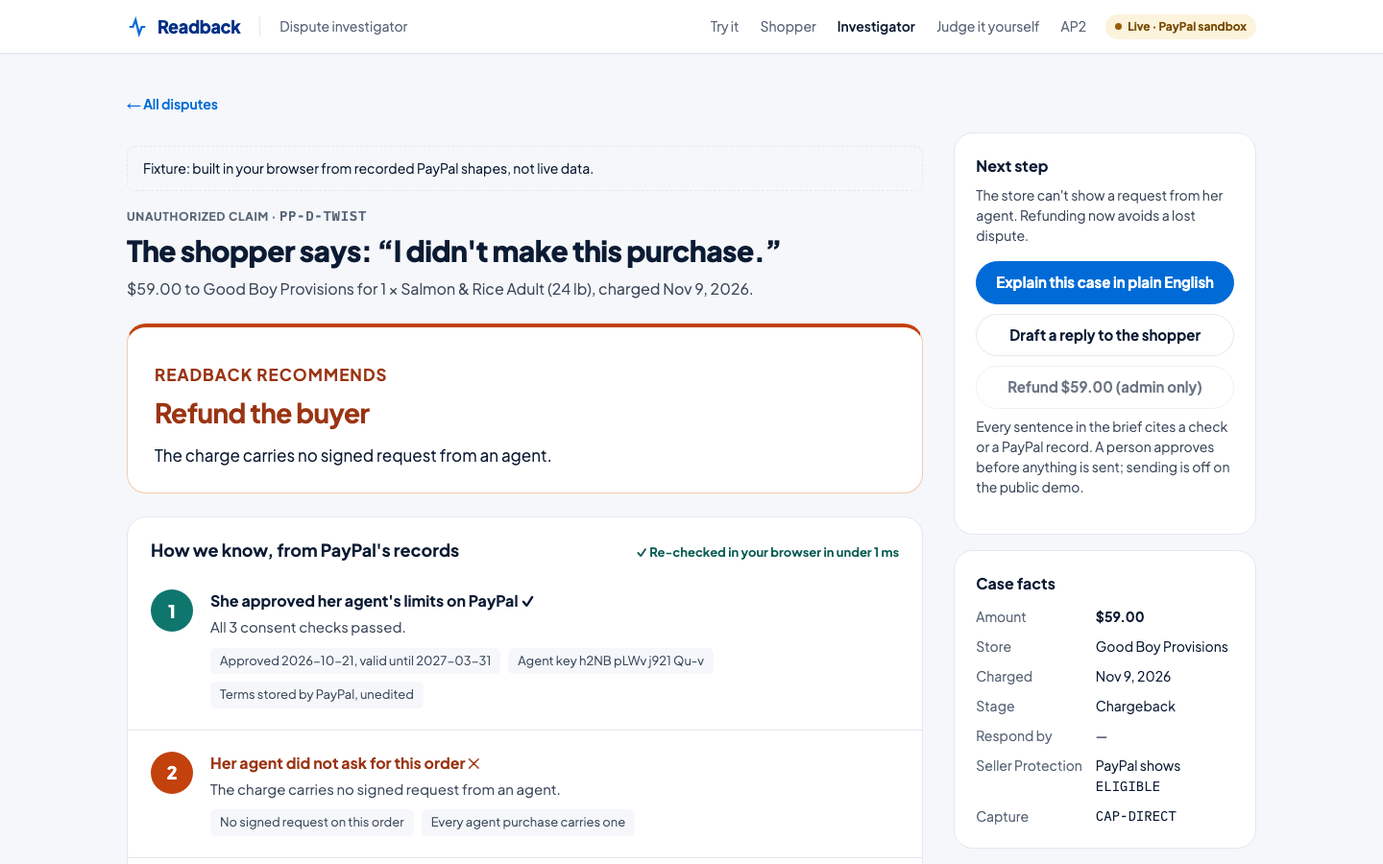
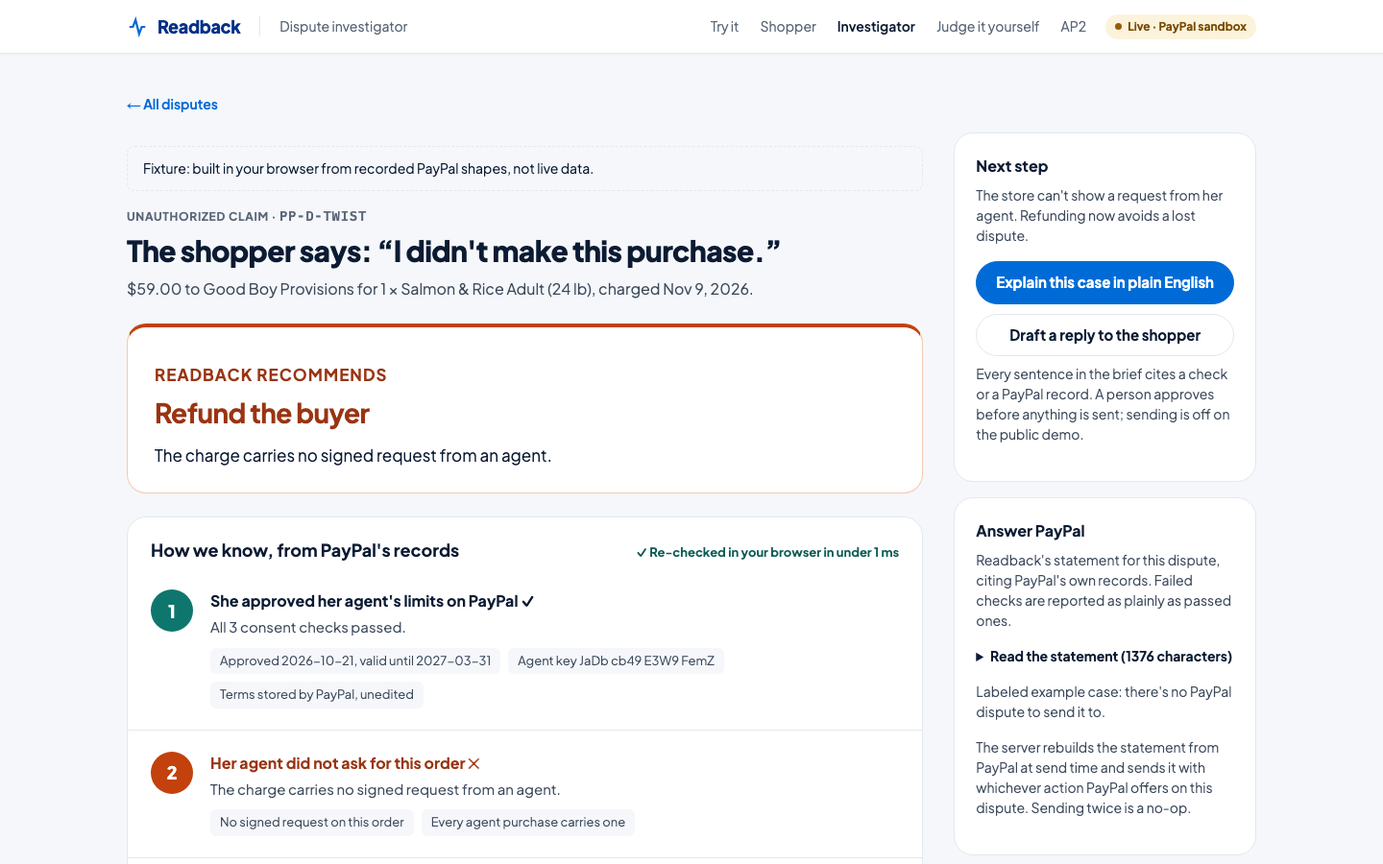
feat: edge cases from the Oct 26 review: closed and multi-charge disputes, refunds, issuer chargebacks, and the refund answer
- Verdict cards derive their headline and key sentence from the evidence
  ("Signed, but not by the key she approved" when that's what the checks
  show), and show PayPal's ruling once a dispute is closed: every live
  dispute will be closed by judging week (the sandbox decides in ~14 h).
- The home page reads HERO_DISPUTE_ID/TWIST_DISPUTE_ID per request; it was
  pre-rendered at build time, so setting them on a deployment did nothing.
- Classification notes, the case facts and the evidence statement state a
  refund already made, a card issuer's chargeback (the issuer decides), and a
  dispute covering several charges (the case view links the others). Notes
  never change a suggestion.
- "Answer PayPal": accept the claim and refund in one click, with the note
  written by code from the case; Readback's recommendation is the primary
  button. Refuses once PayPal has resolved the dispute. The fake supports
  accept-claim; tested end to end on a store's direct charge.

Changed region(s): [[0.6875, 0.4044, 0.9062, 0.9644], [0.4062, 0.7467, 0.5, 0.7778]]

diff --git a/apps/web/components/VerdictPair.tsx b/apps/web/components/VerdictPair.tsx
@@ -4,13 +4,27 @@
 import { type CaseResult, evaluateCase, groupFingerprint, lights } from "@readback/core";
 import { type ReactNode, useEffect, useState } from "react";
 import { loadCase } from "@/lib/case-client";
-import { recommendation } from "@/lib/labels";
+import { paypalRuling, recommendation, type Ruling } from "@/lib/labels";
 import { FourLights } from "./FourLights";
 import { RecPill } from "./ui";
 
-// signedBy/signedAfter wrap the agent fingerprint when the charge carries a valid signed request.
-export type Side = { id: string; tag: string; title: string; signedBy: string; signedAfter: string; unsigned: string; note?: string };
-type Checked = { result: CaseResult; amount: string; fixture: boolean };
+// `title` shows only while loading; once checked, the card's headline is derived from the evidence,
+// so a live pair can never say more than its own checks show (edge case, Oct 26). `note` replaces the
+// classification label only while there's no suggestion.
+export type Side = { id: string; tag: string; title: string; who: "her" | "your"; note?: string };
+
+function headline(result: CaseResult, who: Side["who"]): { title: string; key: "valid" | "other" | "none" } {
+  const m = result.facts.mandate;
+  const key = !m ? "none" : result.facts.terms?.fingerprint === m.fingerprint ? "valid" : "other";
+  const you = who === "her" ? "she" : "you";
+  const termsOk = lights(result.checks).find((l) => l.group === "Terms")?.state !== "fail";
+  const title =
+    key === "none" ? `The ${who === "her" ? "merchant" : "store"} charged ${who} wallet directly`
+    : key === "other" ? `Signed, but not by the key ${you} approved`
+    : `${who === "her" ? "Her" : "Your"} agent asked, ${termsOk ? "within" : "outside"} ${who} terms`;
+  return { title, key };
+}
+type Checked = { result: CaseResult; amount: string; fixture: boolean; ruling: Ruling | null };
 
 // Loads and re-checks each case; null while loading, an Error when it couldn't be read.
 export function useChecked(ids: string[]): { cases: (Checked | Error | null)[]; ms: number } {
@@ -21,7 +35,13 @@ export function useChecked(ids: string[]): { cases: (Checked | Error | null)[]; 
     (async () => {
       const loaded = await Promise.all(ids.map((id) => loadCase(id).catch((e: unknown) => (e instanceof Error ? e : new Error("Couldn't load this case.")))));
       const t0 = performance.now();
-      const cases = await Promise.all(loaded.map(async (l) => (l instanceof Error ? l : { result: await evaluateCase(l.bundle), amount: l.bundle.capture.amount.value, fixture: l.fixture })));
+      const cases = await Promise.all(
+        loaded.map(async (l) => {
+          if (l instanceof Error) return l;
+          const result = await evaluateCase(l.bundle);
+          return { result, amount: l.bundle.capture.amount.value, fixture: l.fixture, ruling: paypalRuling(l.bundle.dispute?.dispute_outcome, result.classification.suggestion) };
+        }),
+      );
       if (live) setState({ cases, ms: Math.round(performance.now() - t0) });
     })();
     return () => {
@@ -44,18 +64,28 @@ export function VerdictCard({ side, checked, placeholder }: { side: Side; checke
   }
   const c = checked.result.classification;
   const m = checked.result.facts.mandate;
+  const h = headline(checked.result, side.who);
+  const you = side.who === "her" ? "she" : "you";
   return (
     <article className="verdict-card" data-rec={recommendation(c.suggestion).key}>
       <div className="pair-top">
         <RecPill suggestion={c.suggestion} />
         <span className="mono muted">{side.tag} · ${checked.amount}</span>
       </div>
-      <h3>{side.title}</h3>
+      {checked.ruling && (
+        // A dispute PayPal already decided: its ruling first, then whether Readback's evidence agrees.
+        <p className="ruling-line"><strong>{checked.ruling.label}.</strong> {checked.ruling.agrees === null ? "" : checked.ruling.agrees ? "Readback agrees." : "Readback's evidence disagrees."}</p>
+      )}
+      <h3>{h.title}</h3>
       <p className="muted">
-        {m ? <>{side.signedBy} <span className="fp">{groupFingerprint(m.fingerprint)}</span>{side.signedAfter}</> : side.unsigned}
+        {m ? (
+          <>Signed by agent key <span className="fp">{groupFingerprint(m.fingerprint)}</span>{h.key === "valid" ? `, the key ${you} approved on PayPal.` : `, not the key ${you} approved on PayPal.`}</>
+        ) : (
+          `No signed request from ${side.who} agent.`
+        )}
       </p>
       <FourLights lights={lights(checked.result.checks)} />
-      <p className="muted small">{side.note ?? c.label}</p>
+      <p className="muted small">{c.suggestion === null && side.note ? side.note : c.label}</p>
       <a className="btn" href={`/investigator/${encodeURIComponent(side.id)}`}>Open the case</a>
     </article>
   );
@@ -77,12 +107,12 @@ export function YourVerdicts({ signed, direct }: { signed: string | null; direct
       </div>
       <div className="pair-grid">
         <VerdictCard
-          side={{ id: signed ?? "", tag: "Your agent's charge", title: "Your agent asked, within your terms", signedBy: "Signed by your tab's key", signedAfter: ", the one you approved on PayPal.", unsigned: "No valid signed request.", note: "No ruling yet, on purpose: nothing has shipped and a new agreement has no undisputed history. The hero case shows one that has both." }}
+          side={{ id: signed ?? "", tag: "Your agent's charge", title: "Your agent asked, within your terms", who: "your", note: "No ruling yet, on purpose: nothing has shipped and a new agreement has no undisputed history. The hero case shows one that has both." }}
           checked={at(signed)}
           placeholder="Step 2 puts your agent's signed charge here."
         />
         <VerdictCard
-          side={{ id: direct ?? "", tag: "The store's charge", title: "The store charged your wallet directly", signedBy: "Signed by", signedAfter: ".", unsigned: "Every term respected, but your agent never asked." }}
+          side={{ id: direct ?? "", tag: "The store's charge", title: "The store charged your wallet directly", who: "your" }}
           checked={at(direct)}
           placeholder="Step 5 puts the store's direct charge here."
         />

diff --git a/apps/web/components/CaseSide.tsx b/apps/web/components/CaseSide.tsx
@@ -11,7 +11,7 @@ const NEXT: Record<Rec["key"], string> = {
   review: "The records don't settle it either way. Read the brief, then decide.",
 };
 
-export function CaseActions({ id, rec, amount, closed }: { id: string; rec: Rec; amount: string; closed: boolean }) {
+export function CaseActions({ id, rec, closed }: { id: string; rec: Rec; closed: boolean }) {
   const [brief, setBrief] = useState<{ sentences: { text: string; cites: string[] }[]; by: string } | null>(null);
   const [draft, setDraft] = useState<{ kind: string; text: string } | null>(null);
 
@@ -34,7 +34,7 @@ export function CaseActions({ id, rec, amount, closed }: { id: string; rec: Rec;
       <div className="side-actions">
         <button type="button" className="btn btn-primary" onClick={explain}>Explain this case in plain English</button>
         {!closed && <button type="button" className="btn" onClick={loadDraft}>Draft a reply to the shopper</button>}
-        {!closed && rec.key === "refund" && <button type="button" className="btn" disabled>Refund ${amount} (admin only)</button>}
+
       </div>
       <p className="side-note">Every sentence in the brief cites a check or a PayPal record. A person approves before anything is sent; sending is off on the public demo.</p>
       {brief && (
@@ -70,6 +70,8 @@ export function CaseFacts({ bundle, result, stage }: { bundle: CaseBundle; resul
         <dt>Charged</dt><dd>{fmt(bundle.capture.create_time)}</dd>
         {stage && (<><dt>Stage</dt><dd>{stage}</dd></>)}
         <dt>Respond by</dt><dd>{due ? fmt(due) : "—"}</dd>
+        {bundle.capture.status.includes("REFUNDED") && (<><dt>Refund</dt><dd>PayPal shows <span className="mono">{bundle.capture.status}</span></dd></>)}
+        {bundle.dispute?.dispute_channel === "EXTERNAL" && (<><dt>Channel</dt><dd>Card issuer chargeback</dd></>)}
         <dt>Seller Protection</dt><dd>PayPal shows <span className="mono">{bundle.capture.seller_protection?.status ?? "not present"}</span></dd>
         <dt>Capture</dt><dd className="mono">{bundle.capture.id}</dd>
       </dl>
@@ -80,18 +82,20 @@ export function CaseFacts({ bundle, result, stage }: { bundle: CaseBundle; resul
 // The store's evidence, sent into PayPal's own dispute (SPEC §5.4–5.5). The statement shown here is
 // computed in this browser from the same PayPal records; the server rebuilds it from PayPal before
 // sending, so what PayPal receives is never text typed here. Sending needs the store's admin token.
-export function EvidenceToPayPal({ id, statement, live }: { id: string; statement: string; live: boolean }) {
+export function EvidenceToPayPal({ id, statement, live, rec, amount }: { id: string; statement: string; live: boolean; rec: Rec; amount: string }) {
   const [token, setToken] = useState("");
   const [busy, setBusy] = useState(false);
   const [result, setResult] = useState<{ ok: boolean; message: string; onPayPalRecord?: boolean; via?: string } | null>(null);
 
-  async function send() {
+  // Two answers, both written by the server from PayPal's records: send the evidence, or accept the
+  // claim and refund (when the evidence supports the buyer, that's Readback's recommendation).
+  async function send(action: "send_evidence" | "refund_buyer") {
     setBusy(true);
     setResult(null);
     const res = await fetch(`/api/cases/${encodeURIComponent(id)}/actions`, {
       method: "POST",
       headers: { "content-type": "application/json", authorization: `Bearer ${token}` },
-      body: JSON.stringify({ action: "send_evidence" }),
+      body: JSON.stringify({ action }),
     }).catch(() => null);
     setResult(((await res?.json().catch(() => null)) as typeof result) ?? { ok: false, message: "Couldn't reach the store's server." });
     setBusy(false);
@@ -99,17 +103,22 @@ export function EvidenceToPayPal({ id, statement, live }: { id: string; statemen
 
   return (
     <section className="card side-card" aria-labelledby="evidence-h">
-      <h2 id="evidence-h">Evidence for PayPal</h2>
+      <h2 id="evidence-h">Answer PayPal</h2>
       <p>Readback&apos;s statement for this dispute, citing PayPal&apos;s own records. Failed checks are reported as plainly as passed ones.</p>
       <details className="evidence">
         <summary>Read the statement ({statement.length} characters)</summary>
         <pre>{statement}</pre>
       </details>
       {live ? (
-        <form className="side-actions" onSubmit={(e) => { e.preventDefault(); void send(); }}>
+        <form className="side-actions" onSubmit={(e) => e.preventDefault()}>
           <label htmlFor="admin-token" className="small">Store admin token</label>
           <input id="admin-token" type="password" className="field" value={token} onChange={(e) => setToken(e.target.value)} autoComplete="off" />
-          <button type="submit" className="btn btn-primary" disabled={busy || !token}>{busy ? "Sending to PayPal…" : "Send to PayPal"}</button>
+          <button type="button" className={`btn ${rec.key === "refund" ? "" : "btn-primary"}`} disabled={busy || !token} onClick={() => void send("send_evidence")}>
+            {busy ? "Working with PayPal…" : "Send the evidence to PayPal"}
+          </button>
+          <button type="button" className={`btn ${rec.key === "refund" ? "btn-refund" : ""}`} disabled={busy || !token} onClick={() => void send("refund_buyer")}>
+            Accept the claim and refund ${amount}
+          </button>
         </form>
       ) : (
         <p className="side-note">Labeled example case: there&apos;s no PayPal dispute to send it to.</p>

diff --git a/apps/web/lib/actions.ts b/apps/web/lib/actions.ts
@@ -16,11 +16,14 @@ export const ActionRequestSchema = z.union([
   }),
   // Readback's evidence statement: the server rebuilds it from PayPal at send time; no text from the browser.
   z.strictObject({ action: z.literal("send_evidence") }),
+  // Accept the claim with a full refund; the note is written by code from the case (Oct 26).
+  z.strictObject({ action: z.literal("refund_buyer") }),
 ]);
 export type ActionRequest = z.infer<typeof ActionRequestSchema>;
 
 const DisputeLinks = z.object({
   reason: z.string(),
+  status: z.string().optional(),
   links: z.array(z.object({ rel: z.string(), href: z.string() })).default([]),
   evidences: z.array(z.object({ notes: z.string().optional() })).nullish(),
   supporting_info: z.array(z.object({ notes: z.string().optional() })).nullish(),
@@ -46,6 +49,21 @@ export async function runDisputeAction(paypal: PayPalClient, disputeId: string, 
   const got = await paypal.get(path, DisputeLinks);
   if (!got.ok) return { ok: false, status: got.status === 404 ? 404 : 502, message: "PayPal didn't return this dispute." };
   const d = got.data;
+
+  if (req.action === "refund_buyer") {
+    if (d.status === "RESOLVED") return { ok: true, sent: false, message: "PayPal has already resolved this dispute; nothing sent." };
+    const lookup = await buildCaseBundle(disputeId, paypal, now);
+    if (!lookup.ok) return { ok: false, status: lookup.status, message: lookup.message };
+    const r = await evaluateCase(lookup.bundle);
+    const why = r.checks.find((k) => !k.pass)?.failures[0]?.message;
+    const text = [
+      `The store accepts this claim and refunds USD ${lookup.bundle.capture.amount.value} in full.`,
+      `Readback's assessment of PayPal's records: ${r.classification.label}${r.classification.suggestion === "BUYER_FAVOR" ? ", which supports the buyer" : ""}.${why ? ` ${why}` : ""}`,
+      `Re-derive it with the store's API credentials: npx @readback/verify ${disputeId}`,
+    ].join(" ");
+    const sent = await runDisputeAction(paypal, disputeId, { action: "accept_claim", text }, now);
+    return sent.ok && sent.sent ? { ...sent, via: "accept_claim", message: "Claim accepted; PayPal refunds the buyer." } : sent;
+  }
 
   if (req.action === "send_evidence") {
     // Whichever evidence action PayPal offers in the dispute's current state (spike step 7).
@@ -81,7 +99,7 @@ export async function runDisputeAction(paypal: PayPalClient, disputeId: string, 
     form.append("input", new Blob([JSON.stringify(input)], { type: "application/json" }));
     res = await paypal.postForm(endpoint, requestId, form, Any);
   } else {
-    res = await paypal.post(endpoint, requestId, req.action === "send_message" ? { message: req.text } : { note: req.text }, Any);
+    res = await paypal.post(endpoint, requestId, req.action === "send_message" ? { message: req.text } : { note: req.text, accept_claim_type: "REFUND" }, Any);
   }
   if (!res.ok) return { ok: false, status: 502, message: `PayPal refused: ${res.issues.join(", ")}.` };
   return { ok: true, sent: true, message: "Sent to PayPal." };

diff --git a/apps/web/lib/actions.test.ts b/apps/web/lib/actions.test.ts
@@ -77,3 +77,37 @@ describe("send Readback's evidence (end to end over the PayPal fake)", () => {
     expect(await runDisputeAction(client, disputeId, { action: "send_evidence" }, new Date("2026-11-09T12:00:00Z"))).toMatchObject({ ok: true, sent: false });
   });
 });
+
+describe("refund the buyer when the evidence supports them (end to end over the PayPal fake)", () => {
+  it("accepts the claim with a full refund, explains why in a note written by code, and only once", async () => {
+    const { fakePayPal } = await import("./paypal/fake");
+    const { formatTerms, generateAgentKey, signActionProof, evaluateCase } = await import("@readback/core");
+    const { directCharge } = await import("./demo");
+    const { buildCaseBundle } = await import("./cases");
+    const pp = fakePayPal();
+    const key = await generateAgentKey(true);
+    const now = new Date("2026-11-08T15:00:00Z");
+    const terms = { merchant: "Good Boy Provisions", sku: "GBP-SR24", qty: 1, periodDays: 1, capCents: 6500, start: "2026-11-08", end: "2027-03-31", fingerprint: key.fingerprint };
+    pp.tokens.set("tok2", { id: "tok2", payment_source: { paypal: { description: formatTerms(terms), payer_id: "MAYA2" } } });
+    const client = paypalClient(ENV, pp.fetch);
+    // The store charges her wallet itself: every term respected, no request from her agent.
+    const proof = await signActionProof("tok2", "direct-charge", now.getTime() / 1000, key.privateKey, key.publicJwk);
+    const charged = await directCharge(client, { tokenId: "tok2", proof }, now);
+    if (!charged.ok) throw new Error(charged.failure.code);
+    const disputeId = pp.openDispute(charged.captureId, "UNAUTHORISED");
+
+    const r = await runDisputeAction(client, disputeId, { action: "refund_buyer" }, new Date("2026-11-09T12:00:00Z"));
+    expect(r).toMatchObject({ ok: true, sent: true, via: "accept_claim" });
+    const post = pp.posts.find((p) => p.path.endsWith("/accept-claim"))!;
+    expect(post.body).toMatchObject({ accept_claim_type: "REFUND", note: expect.stringContaining("which supports the buyer") });
+    expect((post.body as { note: string }).note).toContain(`npx @readback/verify ${disputeId}`);
+
+    // PayPal has resolved it for the buyer; the case now reads that way, and a second click sends nothing.
+    const after = await buildCaseBundle(disputeId, client, new Date("2026-11-09T12:05:00Z"));
+    if (!after.ok) throw new Error(after.message);
+    expect(after.bundle.dispute!.dispute_outcome).toMatchObject({ outcome_code: "RESOLVED_BUYER_FAVOUR" });
+    expect((await evaluateCase(after.bundle)).classification.notes.join(" ")).toMatch(/fully refunded/);
+    expect(await runDisputeAction(client, disputeId, { action: "refund_buyer" })).toMatchObject({ ok: true, sent: false });
+    expect(pp.posts.filter((p) => p.path.endsWith("/accept-claim"))).toHaveLength(1);
+  });
+});

diff --git a/apps/web/components/CaseView.tsx b/apps/web/components/CaseView.tsx
@@ -57,6 +57,7 @@ export function CaseView({ id }: { id: string }) {
   const lead = groups.find((g) => g.state === "fail") ?? groups.find((g) => g.state === "caution");
   const why = rec.key === "uphold" ? UPHOLD_WHY : rec.key === "refund" && lead ? lead.summary : `${c.label}. The evidence doesn't support a recommendation either way, so a person should look.`;
   const terms = result.facts.terms;
+  const otherCharges = (bundle.dispute?.disputed_transactions ?? []).map((t) => t.seller_transaction_id).filter((id): id is string => Boolean(id) && id !== bundle.capture.id);
 
   return (
     <div className="case-layout">
@@ -72,6 +73,12 @@ export function CaseView({ id }: { id: string }) {
           {bundle.order.purchase_units[0]?.items?.[0] ? ` for ${bundle.order.purchase_units[0].items[0].quantity} × ${bundle.order.purchase_units[0].items[0].name}` : ""}
           , charged {fmtDate(bundle.capture.create_time)}.
         </p>
+        {otherCharges.length > 0 && (
+          <p className="banner">
+            This dispute covers {otherCharges.length + 1} charges; this page evaluates <span className="mono">{bundle.capture.id}</span>. Also check:{" "}
+            {otherCharges.map((id, i) => <span key={id}>{i > 0 && ", "}<a href={`/investigator/${encodeURIComponent(id)}`} className="mono">{id}</a></span>)}
+          </p>
+        )}
 
         {ruling && (
           <section className="card ruling-banner" aria-labelledby="ruling-h">
@@ -105,8 +112,8 @@ export function CaseView({ id }: { id: string }) {
       </div>
 
       <aside className="case-side" aria-label="Case actions and facts">
-        <CaseActions id={id} rec={rec} amount={bundle.capture.amount.value} closed={ruling !== null} />
-        {bundle.dispute && ruling === null && <EvidenceToPayPal id={id} statement={evidenceStatement(bundle, result)} live={!loaded.fixture} />}
+        <CaseActions id={id} rec={rec} closed={ruling !== null} />
+        {bundle.dispute && ruling === null && <EvidenceToPayPal id={id} statement={evidenceStatement(bundle, result)} live={!loaded.fixture} rec={rec} amount={bundle.capture.amount.value} />}
         <CaseFacts bundle={bundle} result={result} stage={bundle.dispute ? stageLabel(bundle.dispute.dispute_life_cycle_stage) : null} />
       </aside>
     </div>

diff --git a/packages/verify-cli/src/fake.ts b/packages/verify-cli/src/fake.ts
@@ -62,6 +62,18 @@ export function fakePayPal(): FakePayPal {
       const body: unknown = form ? JSON.parse(await (form.get("input") as Blob).text()) : init?.body ? JSON.parse(String(init.body)) : undefined;
       posts.push({ path, requestId, body });
       if (requestId && byRequestId.has(`${path}|${requestId}`)) return json(200, byRequestId.get(`${path}|${requestId}`));
+      // Accepting a claim resolves the dispute for the buyer and refunds the charge.
+      const accept = /^\/v1\/customer\/disputes\/([^/]+)\/accept-claim$/.exec(path);
+      if (accept) {
+        const d = disputes.get(accept[1]!);
+        if (!d) return json(404, { name: "RESOURCE_NOT_FOUND" });
+        Object.assign(d, { status: "RESOLVED", dispute_outcome: { outcome_code: "RESOLVED_BUYER_FAVOUR", outcome_reason: "ACCEPTED_BY_SELLER" }, links: [{ rel: "self", href: `/v1/customer/disputes/${accept[1]}` }] });
+        const capId = (d["disputed_transactions"] as { seller_transaction_id: string }[])[0]!.seller_transaction_id;
+        const cap = captureById(capId);
+        if (cap) cap["status"] = "REFUNDED";
+        if (requestId) byRequestId.set(`${path}|${requestId}`, { links: [] });
+        return json(200, { links: [] });
+      }
       const info = /^\/v1\/customer\/disputes\/([^/]+)\/provide-supporting-info$/.exec(path);
       if (info) {
         const d = disputes.get(info[1]!);
@@ -172,7 +184,7 @@ export function fakePayPal(): FakePayPal {
     disputes.set(id, {
       dispute_id: id, reason, status: "UNDER_REVIEW", dispute_life_cycle_stage: "CHARGEBACK",
       // In this state the sandbox offered only supporting info (spike step 7).
-      links: [{ rel: "self", href: `/v1/customer/disputes/${id}` }, { rel: "provide_supporting_info", href: `/v1/customer/disputes/${id}/provide-supporting-info` }],
+      links: [{ rel: "self", href: `/v1/customer/disputes/${id}` }, { rel: "provide_supporting_info", href: `/v1/customer/disputes/${id}/provide-supporting-info` }, { rel: "accept_claim", href: `/v1/customer/disputes/${id}/accept-claim` }],
       disputed_transactions: [{ seller_transaction_id: captureId, custom: c?.["custom_id"], invoice_number: c?.["invoice_id"] }],
     });
     return id;

diff --git a/packages/readback-core/src/classify.ts b/packages/readback-core/src/classify.ts
@@ -29,8 +29,25 @@ export async function evaluateCase(bundle: CaseBundle): Promise<CaseResult> {
   const mode = bundle.dispute ? "dispute" : "preview";
   const reason: DisputeReason = bundle.dispute?.reason ?? "UNAUTHORISED";
   const failed = checks.filter((c) => !c.pass).map((c) => c.id);
-  const classification = applyModifiers(classify(reason, new Set(failed)), checks, facts);
+  const c = applyModifiers(classify(reason, new Set(failed)), checks, facts);
+  const classification = { ...c, notes: [...c.notes, ...contextNotes(bundle)] };
   return { mode, reason, facts, checks, failed, classification };
+}
+
+// Facts an investigator needs to read a suggestion correctly, stated, never used to decide one
+// (edge cases, Oct 26): a refund already made, a card issuer deciding instead of PayPal, and a
+// dispute that covers more than the charge evaluated here.
+function contextNotes(b: CaseBundle): string[] {
+  const notes: string[] = [];
+  if (b.capture.status === "REFUNDED") notes.push("PayPal shows this charge fully refunded already.");
+  if (b.capture.status === "PARTIALLY_REFUNDED") notes.push("PayPal shows this charge partly refunded already.");
+  if (b.dispute?.dispute_channel === "EXTERNAL") notes.push("A card issuer's chargeback: the issuer decides, and PayPal's outcome doesn't bind it.");
+  const txns = b.dispute?.disputed_transactions ?? [];
+  if (txns.length > 1) {
+    const others = txns.map((t) => t.seller_transaction_id).filter((id): id is string => Boolean(id) && id !== b.capture.id);
+    notes.push(`This dispute covers ${txns.length} charges; this evaluation is of ${b.capture.id}. Check the others separately: ${others.join(", ")}.`);
+  }
+  return notes;
 }
 
 function row(row: number, code: string, label: string, suggestion: Suggestion, notes: string[] = []): Classification {

diff --git a/packages/readback-core/src/classify.test.ts b/packages/readback-core/src/classify.test.ts
@@ -189,6 +189,18 @@ describe("classification rows", () => {
     expect(await outcome(withReason(clone(), "CANCELED_RECURRING_BILLING"))).toMatchObject({ row: 10, suggestion: null });
   });
 
+  it("states refunds, card-issuer chargebacks and multi-charge disputes without changing the suggestion (Oct 26)", async () => {
+    const plain = await evaluateCase(clone());
+    const b = clone();
+    b.capture = { ...b.capture, status: "PARTIALLY_REFUNDED" };
+    b.dispute = { ...b.dispute!, dispute_channel: "EXTERNAL", disputed_transactions: [...b.dispute!.disputed_transactions!, { seller_transaction_id: "CAP-OTHER" }] };
+    const r = await evaluateCase(b);
+    expect(r.classification.suggestion).toBe(plain.classification.suggestion);
+    expect(r.classification.notes.join(" ")).toMatch(/partly refunded/);
+    expect(r.classification.notes.join(" ")).toMatch(/card issuer's chargeback/);
+    expect(r.classification.notes.join(" ")).toMatch(/covers 2 charges; this evaluation is of CAP-HERO\. Check the others separately: CAP-OTHER/);
+  });
+
   it("the history threshold guards every seller-favor row, not only unauthorized (audit Oct 25)", async () => {
     const b = withReason(clone(), "INCORRECT_AMOUNT");
     b.history = [];

diff --git a/apps/web/components/TwoVerdicts.tsx b/apps/web/components/TwoVerdicts.tsx
@@ -6,8 +6,8 @@
 import { checkedIn, type Side, useChecked, VerdictCard } from "./VerdictPair";
 
 const SIDES: [Omit<Side, "id">, Omit<Side, "id">] = [
-  { tag: "Charge A", title: "Her agent asked, within her terms", signedBy: "Signed by agent key", signedAfter: ", the key she approved on PayPal.", unsigned: "No signed request from her agent." },
-  { tag: "Charge B", title: "The merchant charged her wallet directly", signedBy: "Signed by agent key", signedAfter: ".", unsigned: "Every term respected, but no signed request from her agent." },
+  { tag: "Charge A", title: "Her agent asked, within her terms", who: "her" },
+  { tag: "Charge B", title: "The merchant charged her wallet directly", who: "her" },
 ];
 const FIXTURES = ["fixture-hero", "fixture-twist"];
 

diff --git a/apps/web/lib/evidence.ts b/apps/web/lib/evidence.ts
@@ -39,7 +39,7 @@ export function evidenceStatement(bundle: CaseBundle, result: CaseResult): strin
     c.suggestion === "SELLER_FAVOR"
       ? `Readback's assessment: ${c.label}. ${c.notes.join(" ")}`
       : c.suggestion === "BUYER_FAVOR"
-        ? `Readback's assessment: ${c.label}; the evidence supports the buyer.`
+        ? `Readback's assessment: ${c.label}; the evidence supports the buyer. ${c.notes.join(" ")}`
         : `Readback's assessment: ${c.label}; the evidence doesn't support a suggestion either way. ${c.notes.join(" ")}`,
     "Limits: the agent-key binding rests on an honest setup and the shopper's fingerprint check at approval (Readback THREAT-MODEL T21); tracking is merchant-reported.",
   ];

diff --git a/apps/web/app/globals.css b/apps/web/app/globals.css
@@ -395,4 +395,4 @@ main.console.narrow { max-width: 56rem; }
 .evidence { margin: 0 0 1rem; font-size: var(--text-sm); }
 .evidence summary { cursor: pointer; font-weight: 700; }
 .evidence pre { margin: 0.625rem 0 0; padding: 0.75rem; white-space: pre-wrap; overflow-wrap: anywhere; font-family: var(--font-mono); font-size: 0.75rem; line-height: 1.5; background: var(--paper); border-radius: var(--radius); color: var(--ink); }
-
+.ruling-line { margin: 0.75rem 0 0; padding: 0.5rem 0.75rem; border-radius: var(--radius); background: var(--surface); border: 1px solid var(--rule); font-size: var(--text-sm); color: var(--ink); }

diff --git a/apps/web/app/page.tsx b/apps/web/app/page.tsx
@@ -3,6 +3,10 @@ import { JudgeMode } from "@/components/JudgeMode";
 import { TwoVerdicts } from "@/components/TwoVerdicts";
 import { AppFooter, AppHeader } from "@/components/ui";
 
+// Read per request, not at build time: setting HERO_DISPUTE_ID/TWIST_DISPUTE_ID on a running
+// deployment must take effect without a rebuild (edge case, Oct 26).
+export const dynamic = "force-dynamic";
+
 // The real hero and twist disputes, once opened in the sandbox; otherwise the landing uses fixtures.
 const caseId = (v: string | undefined) => (v && /^[A-Za-z0-9-]{1,64}$/.test(v) ? v : undefined);
 
